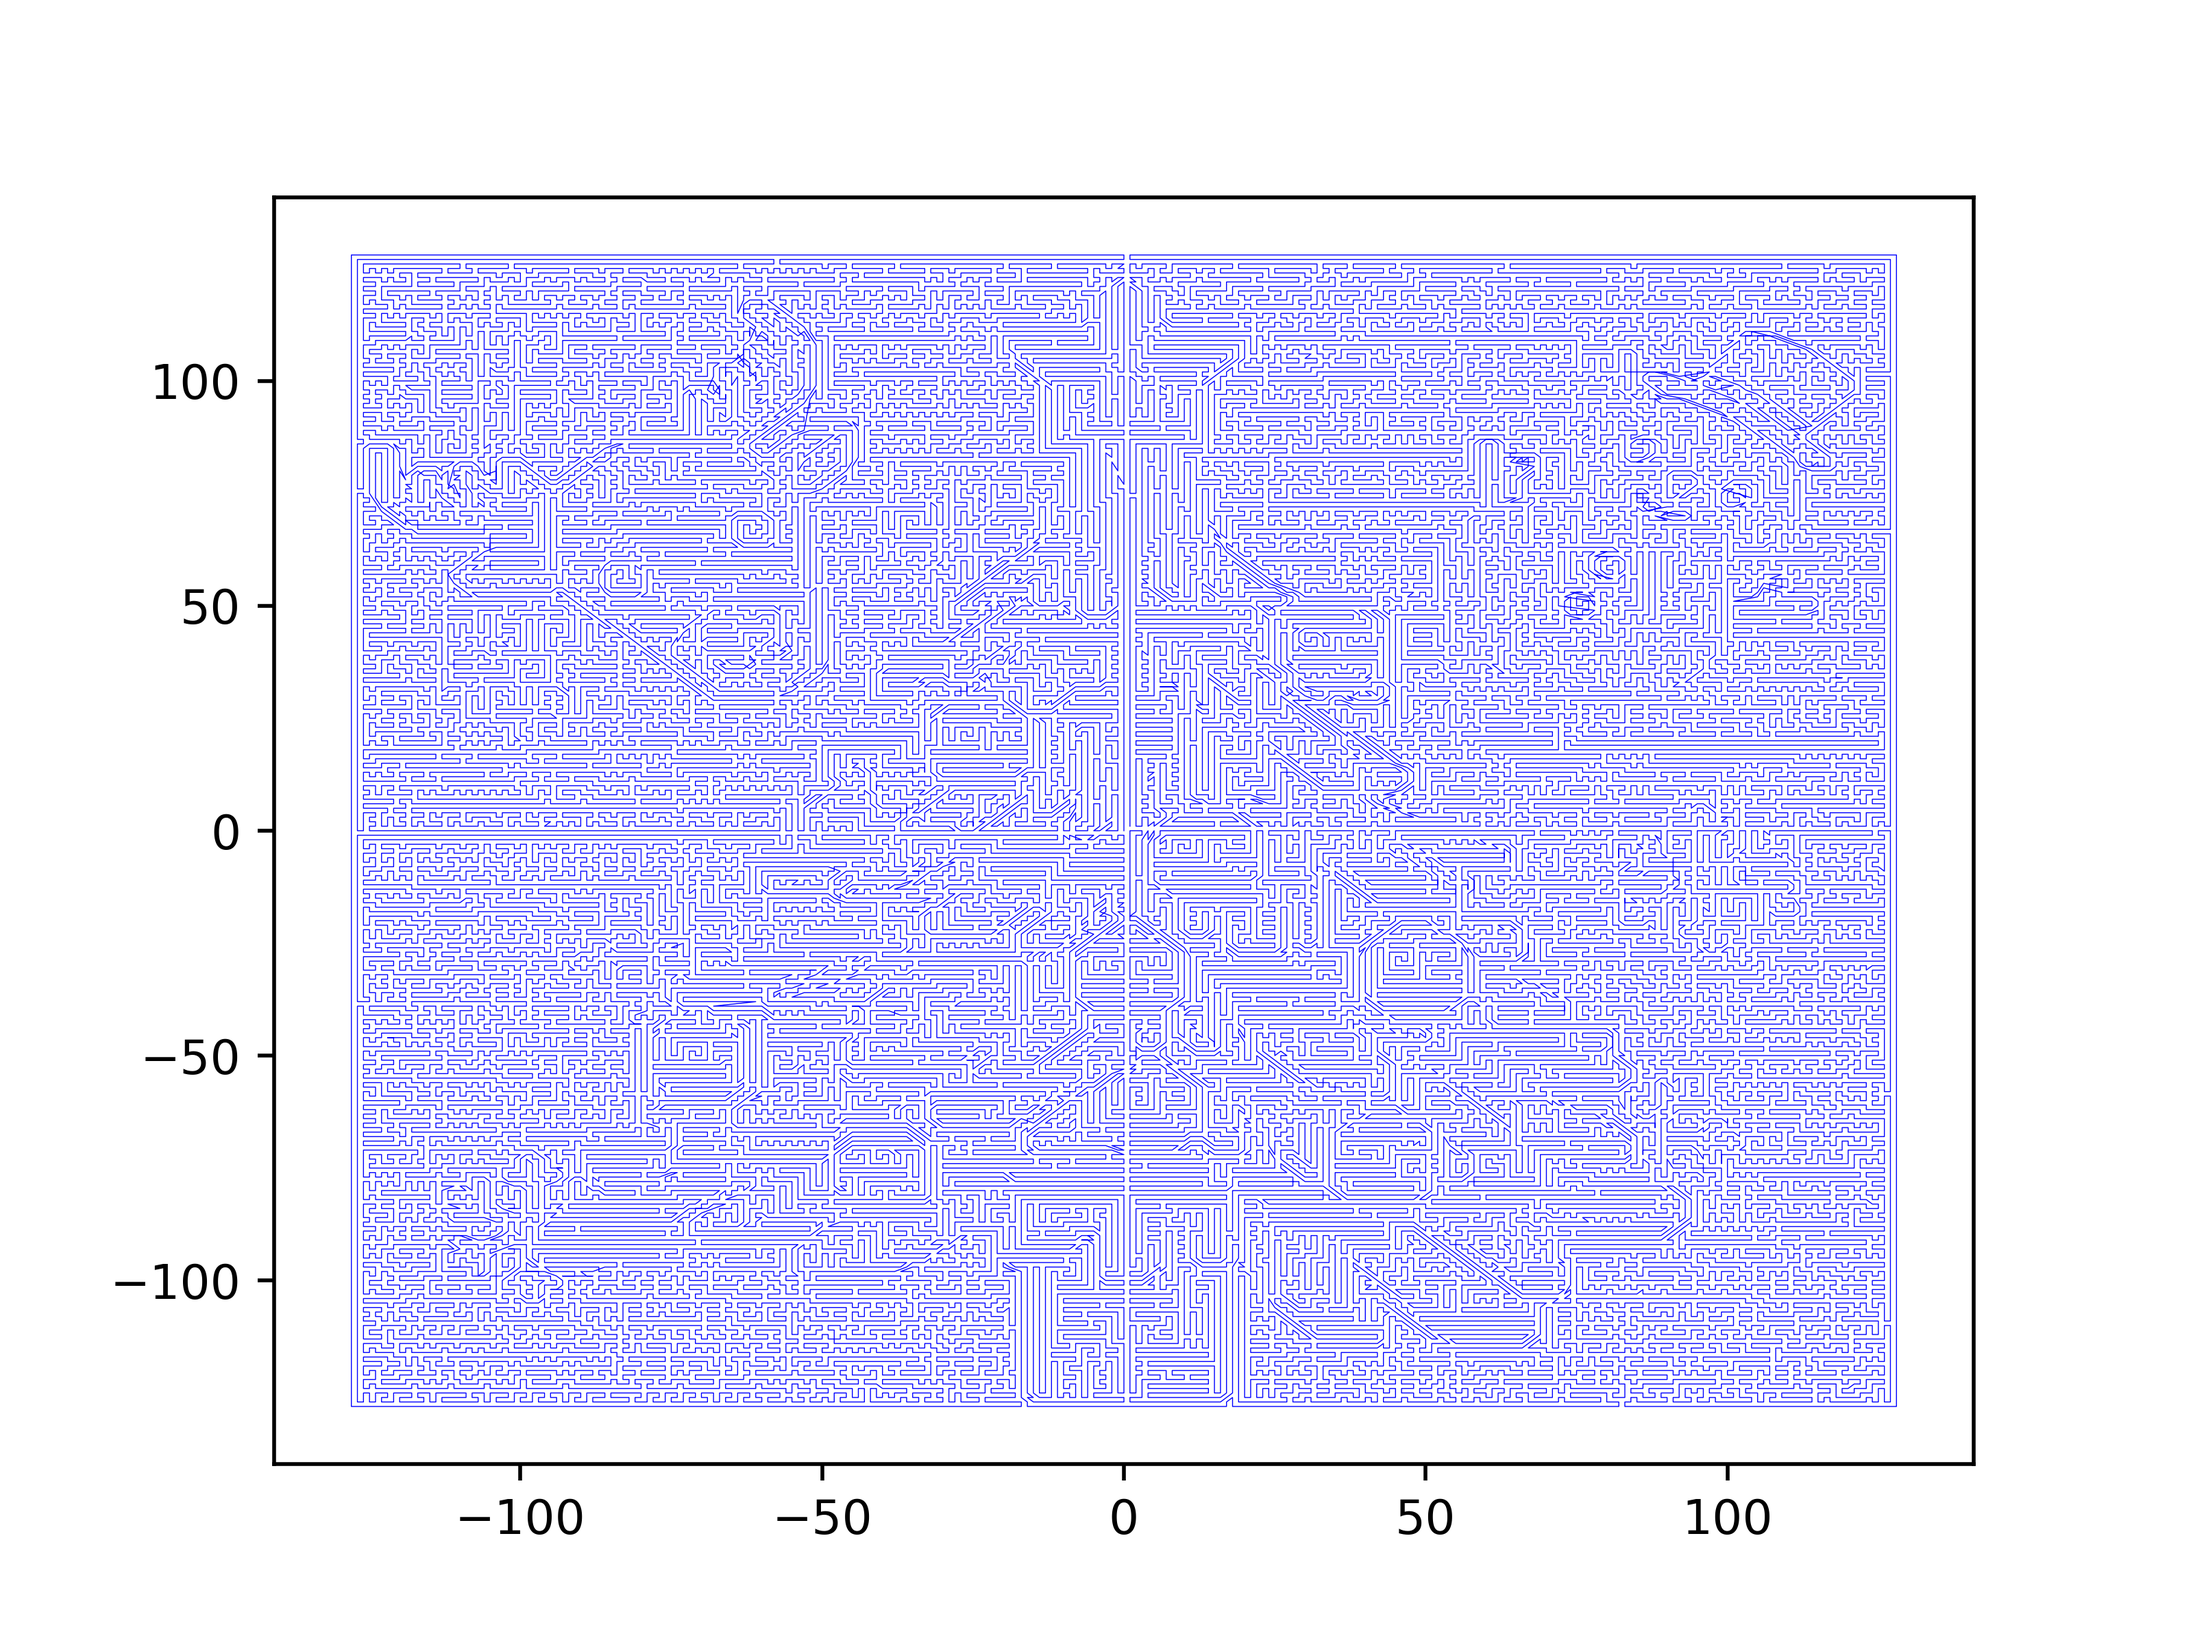
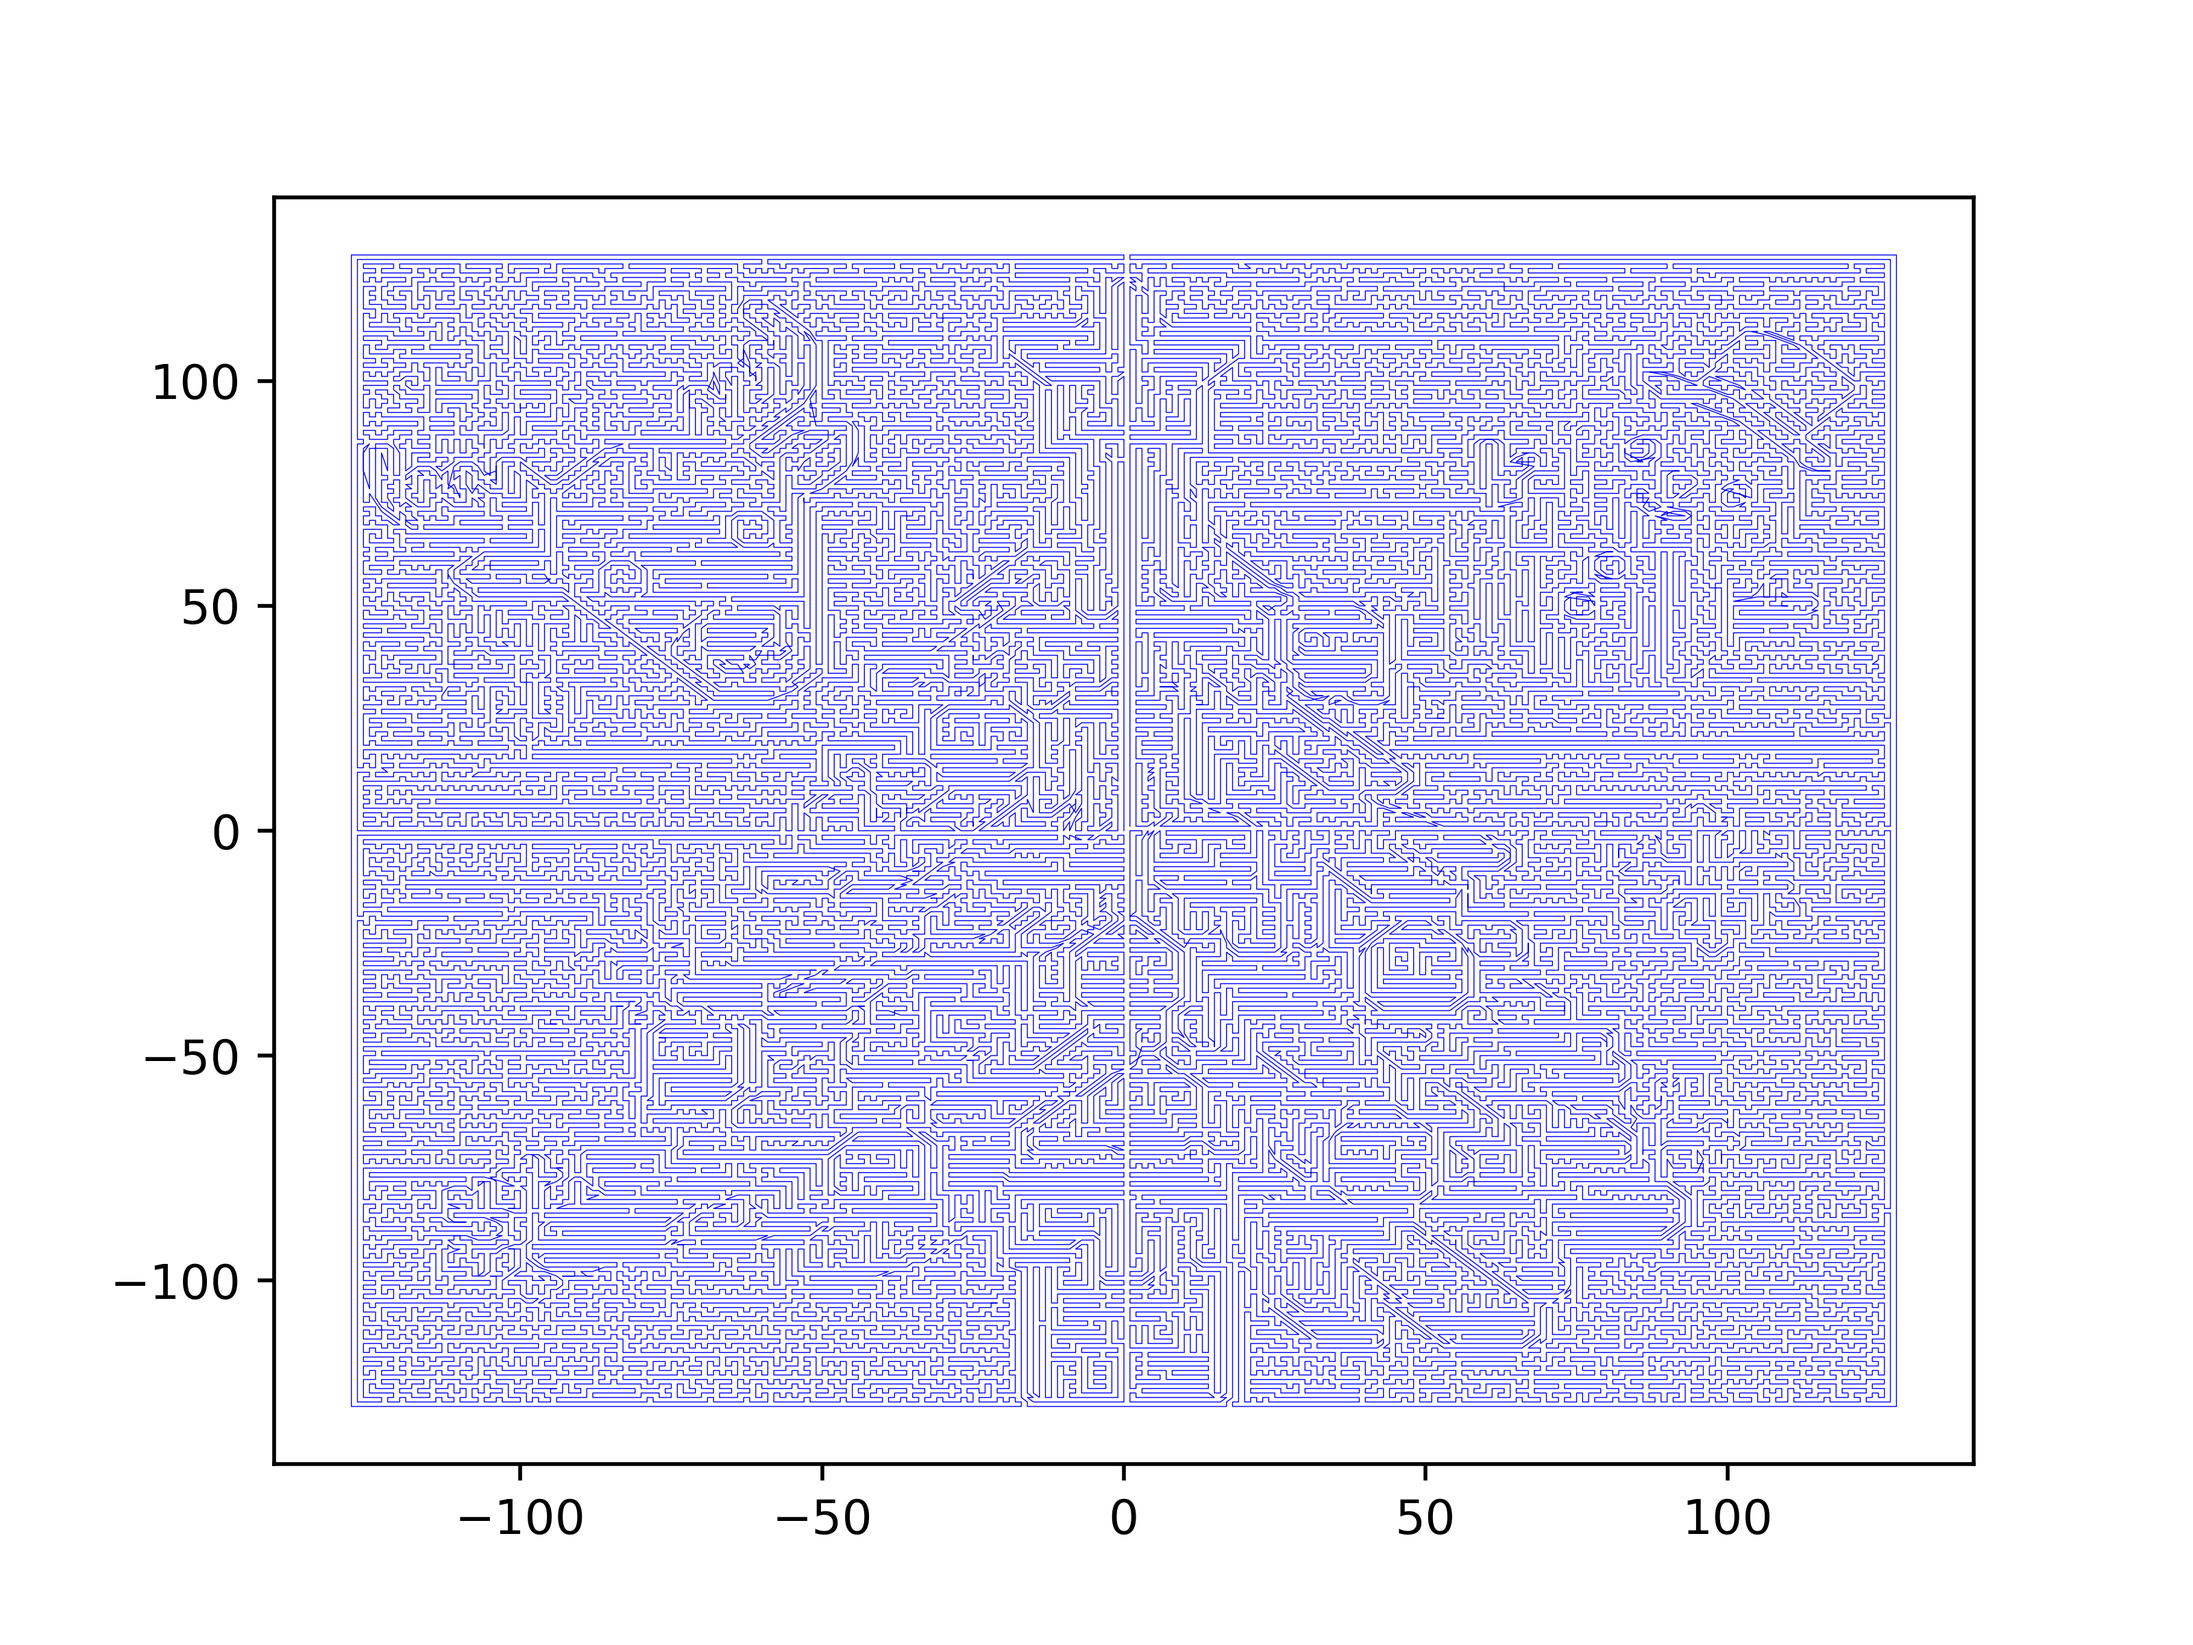
add all eval calculator

diff --git a/route_solver/src/approx_solver.rs b/route_solver/src/approx_solver.rs
@@ -21,7 +21,7 @@ use rayon::prelude::{IntoParallelIterator, ParallelIterator};
 use crate::{
     mst_solution::create_mst_solution,
     onestep_distance::OneStepDistanceFunction,
-    util::{DiffPose, Direction, Pose},
+    util::{load_image, DiffPose, Direction, Pose},
 };
 
 // s-t を同一視するため、以下のルールを採用
@@ -633,62 +633,56 @@ pub fn solve() {
     // final_subpath.push((0, 1));
     // final_subpath.push((0, 0));
 
-    {
-        // initialize
-        let mut pose_simulator = PoseSimulator::new();
-        for _i in 0..64 {
-            pose_simulator.simulate_manual(0, Direction::Up);
-        }
-        eprintln!("finish init");
-        eprintln!("cur: {:?}", pose_simulator.current());
-        eprintln!("cur pose: {:?}", pose_simulator.pose_list.last().unwrap());
-
-        {
-            pose_simulator.is_size64_vertical = false;
-            let mut subpath = ul_subpath.clone();
-            subpath.remove(0);
-            pose_simulator.simulate_auto(&subpath);
-            eprintln!("finish path ul",);
-        }
-        {
-            pose_simulator.is_size64_vertical = true;
-            let mut subpath = ll_subpath.clone();
-            subpath.remove(0);
-            pose_simulator.simulate_auto(&subpath);
-            eprintln!("finish path ll");
-        }
-        {
-            pose_simulator.is_size64_vertical = false;
-            let mut subpath = lr_subpath.clone();
-            subpath.remove(0);
-            pose_simulator.simulate_auto(&subpath);
-            eprintln!("finish path lr");
-        }
-        {
-            pose_simulator.is_size64_vertical = true;
-            let mut subpath = ur_subpath.clone();
-            subpath.remove(0);
-            pose_simulator.simulate_auto(&subpath);
-            eprintln!("finish path ur");
-        }
-
-        // finalize
-        pose_simulator.is_size64_vertical = false;
-        for idx in 1..7 {
-            while pose_simulator.pose_list.last().unwrap().arm_list[idx].y > 0 {
-                pose_simulator.simulate_manual(idx, Direction::Down);
-            }
-            while pose_simulator.pose_list.last().unwrap().arm_list[idx].y < 0 {
-                pose_simulator.simulate_manual(idx, Direction::Up);
-            }
-        }
-        eprintln!("finish finalize");
-        pose_simulator.simulate_manual(7, Direction::Left);
-        eprintln!("finish finalize 1");
-        pose_simulator.simulate_manual(7, Direction::Down);
-        eprintln!("finish finalize 2");
-        pose_simulator.save(&PathBuf::from_str("final_result.csv").unwrap());
+    // initialize
+    let mut pose_simulator = PoseSimulator::new();
+    for _i in 0..64 {
+        pose_simulator.simulate_manual(0, Direction::Up);
     }
+    {
+        pose_simulator.is_size64_vertical = false;
+        let mut subpath = ul_subpath.clone();
+        subpath.remove(0);
+        pose_simulator.simulate_auto(&subpath);
+        eprintln!("finish path ul",);
+    }
+    {
+        pose_simulator.is_size64_vertical = true;
+        let mut subpath = ll_subpath.clone();
+        subpath.remove(0);
+        pose_simulator.simulate_auto(&subpath);
+        eprintln!("finish path ll");
+    }
+    {
+        pose_simulator.is_size64_vertical = false;
+        let mut subpath = lr_subpath.clone();
+        subpath.remove(0);
+        pose_simulator.simulate_auto(&subpath);
+        eprintln!("finish path lr");
+    }
+    {
+        pose_simulator.is_size64_vertical = true;
+        let mut subpath = ur_subpath.clone();
+        subpath.remove(0);
+        pose_simulator.simulate_auto(&subpath);
+        eprintln!("finish path ur");
+    }
+
+    // finalize
+    pose_simulator.is_size64_vertical = false;
+    for idx in 1..7 {
+        while pose_simulator.pose_list.last().unwrap().arm_list[idx].y > 0 {
+            pose_simulator.simulate_manual(idx, Direction::Down);
+        }
+        while pose_simulator.pose_list.last().unwrap().arm_list[idx].y < 0 {
+            pose_simulator.simulate_manual(idx, Direction::Up);
+        }
+    }
+    eprintln!("finish finalize");
+    pose_simulator.simulate_manual(7, Direction::Left);
+    eprintln!("finish finalize 1");
+    pose_simulator.simulate_manual(7, Direction::Down);
+    eprintln!("finish finalize 2");
+    pose_simulator.save(&PathBuf::from_str("final_result.csv").unwrap());
 
     // merge solutionp
     let mut merged_solution = vec![];
@@ -710,4 +704,23 @@ pub fn solve() {
 
     let final_solution = ArraySolution::from_array(merged_solution);
     final_solution.save(&PathBuf::from_str("final_solution.tsp").unwrap());
+
+    // eval
+    let color_table = load_image(&PathBuf::from_str("data/image.csv").unwrap());
+    let mut eval = 0.0;
+    for i in 0..pose_simulator.pose_list.len() - 1 {
+        let pose = pose_simulator.pose_list[i];
+        let index = orig_index_table[&pose.coord()] as usize;
+        let next_pose = pose_simulator.pose_list[i + 1];
+        let next_index = orig_index_table[&next_pose.coord()] as usize;
+
+        let pos_cost = pose.cost(&next_pose);
+
+        let dr = color_table[index].r.abs_diff(color_table[next_index].r);
+        let dg = color_table[index].g.abs_diff(color_table[next_index].g);
+        let db = color_table[index].b.abs_diff(color_table[next_index].b);
+        let color_cost = (dr + dg + db) as f64 * 3.0 / 255.0;
+        eval += pos_cost + color_cost;
+    }
+    eprintln!("final eval: {}", eval);
 }

diff --git a/route_solver/src/util.rs b/route_solver/src/util.rs
@@ -200,6 +200,16 @@ impl Pose {
         DiffPose { diff_list }
     }
 
+    pub fn cost(&self, to: &Pose) -> f64 {
+        let mut counter = 0;
+        for i in 0..8 {
+            if self.arm_list[i] != to.arm_list[i] {
+                counter += 1;
+            }
+        }
+        (counter as f64).sqrt()
+    }
+
     pub fn pos_diff(&self, to: &Pose) -> i64 {
         let mut ret = 0;
         for i in 0..8 {

diff --git a/tool/plot.py b/tool/plot.py
@@ -14,7 +14,7 @@ def load_solution(filepath: str):
 if __name__ == "__main__":
     
     data = load_data("../data/image.csv")
-    solution = load_solution("../solution_split_lkh.tsp")
+    solution = load_solution("../final_solution.tsp")
     
     xs = list(map(lambda idx: data[idx][0], solution))
     ys = list(map(lambda idx: data[idx][1], solution))
